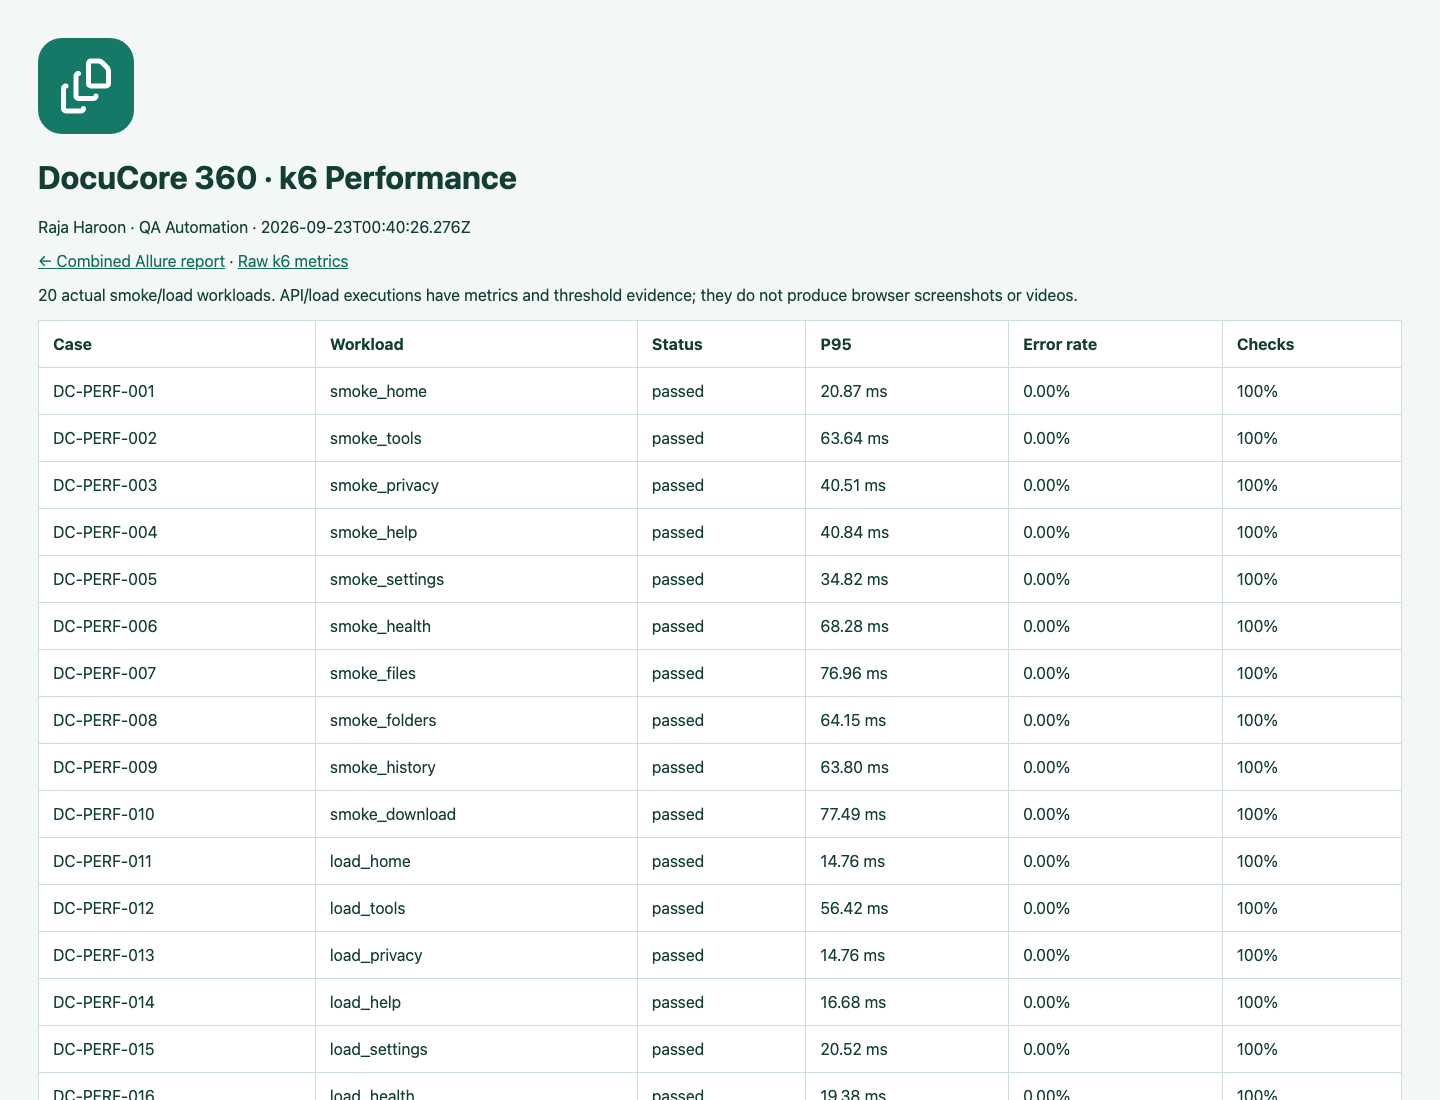
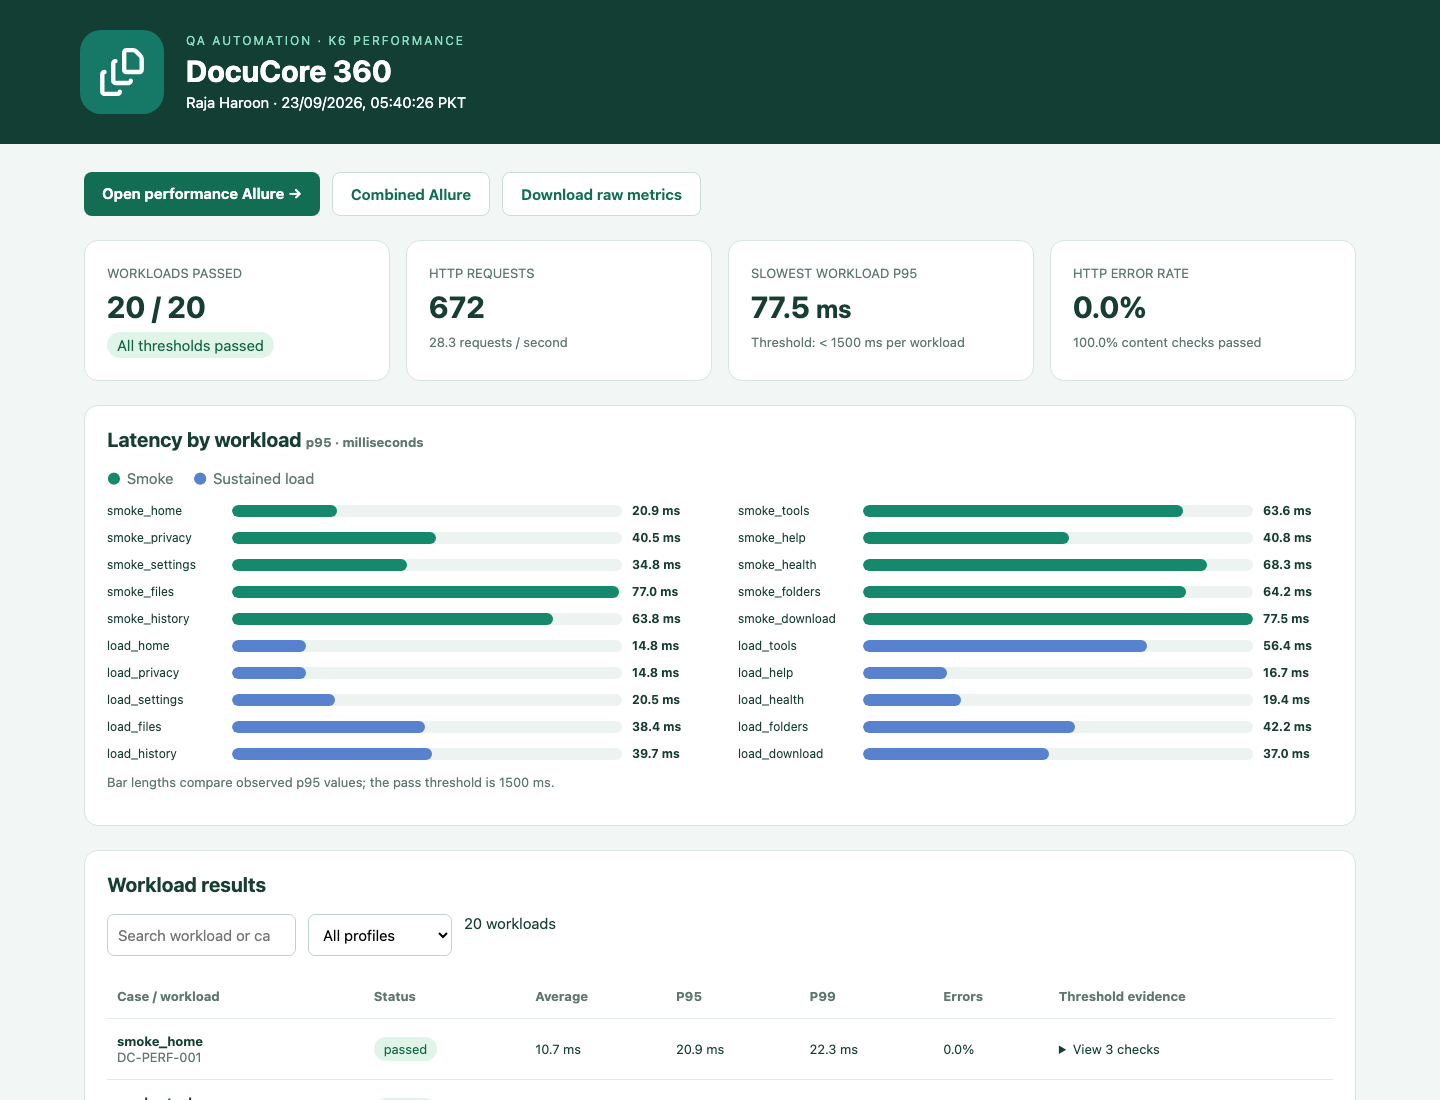
Add dedicated k6 Allure report and visual performance dashboard

diff --git a/docs/automation/README.md b/docs/automation/README.md
@@ -149,3 +149,17 @@ Latest report audit: **261 UI + 91 API + 48 BDD + 20 k6 + 55 unit/database = 475
 ![Allure trend charts](../screenshots/allure-trends.png)
 
 ![Dedicated k6 workload report](../screenshots/k6-performance.png)
+
+## Dedicated performance dashboard and Allure
+
+Open **http://localhost:4173/k6/index.html** for workload pass totals, request volume/rate, actual HTTP error/check rates, a p95 comparison chart, smoke/load filters and expandable threshold checks. The **Open performance Allure** button opens **http://localhost:4173/k6/allure-report/index.html**, a separate branded 20-case report with Smoke tests and Sustained load suites, executor/environment metadata, threshold steps and measured JSON attachments. Combined Allure remains available from the dashboard. This follows LedgerMate's dedicated performance Allure layout.
+
+To regenerate presentation from existing measurements without rerunning tests:
+
+```bash
+node scripts/automation/performance-report.mjs
+```
+
+The complete automation command generates both views automatically. Charts use summary metrics, not invented time-series. Dedicated performance Allure reports zero adapter duration per workload; measured response latency is in the dashboard and attached metrics. Its history is retained separately, and regenerating a measured run does not duplicate its trend samples.
+
+![Dedicated performance Allure](../screenshots/k6-allure.png)

diff --git a/README.md b/README.md
@@ -269,7 +269,7 @@ Open **http://localhost:4173** after the run. See the [full setup and reporting 
 
 ![Combined automation report: 400 functional, 20 performance and 55 unit checks](docs/screenshots/automation-report.png)
 
-The Allure overview includes **Raja Haroon · QA Automation**, project/run date and DocuCore branding. Suites and categories separate **UI, APIs, BDD, Performance and Unit / Database**. Open the k6 link for all 20 workloads and raw metrics. Native browser screenshots/videos/traces and framework hooks remain attached; API/load cases include execution or threshold evidence rather than browser recordings. History is retained across complete runs for status, duration, retries and category trends.
+The Allure overview includes **Raja Haroon · QA Automation**, project/run date and DocuCore branding. Suites and categories separate **UI, APIs, BDD, Performance and Unit / Database**. Open the k6 link for a performance dashboard with latency charts, summary cards, smoke/load filters and raw metrics. Its **Open performance Allure** button opens a dedicated branded report containing only the 20 k6 workloads. Native browser screenshots/videos/traces and framework hooks remain attached; API/load cases include execution or threshold evidence rather than browser recordings. History is retained across complete runs for status, duration, retries and category trends.
 
 ## Quality and operations
 
